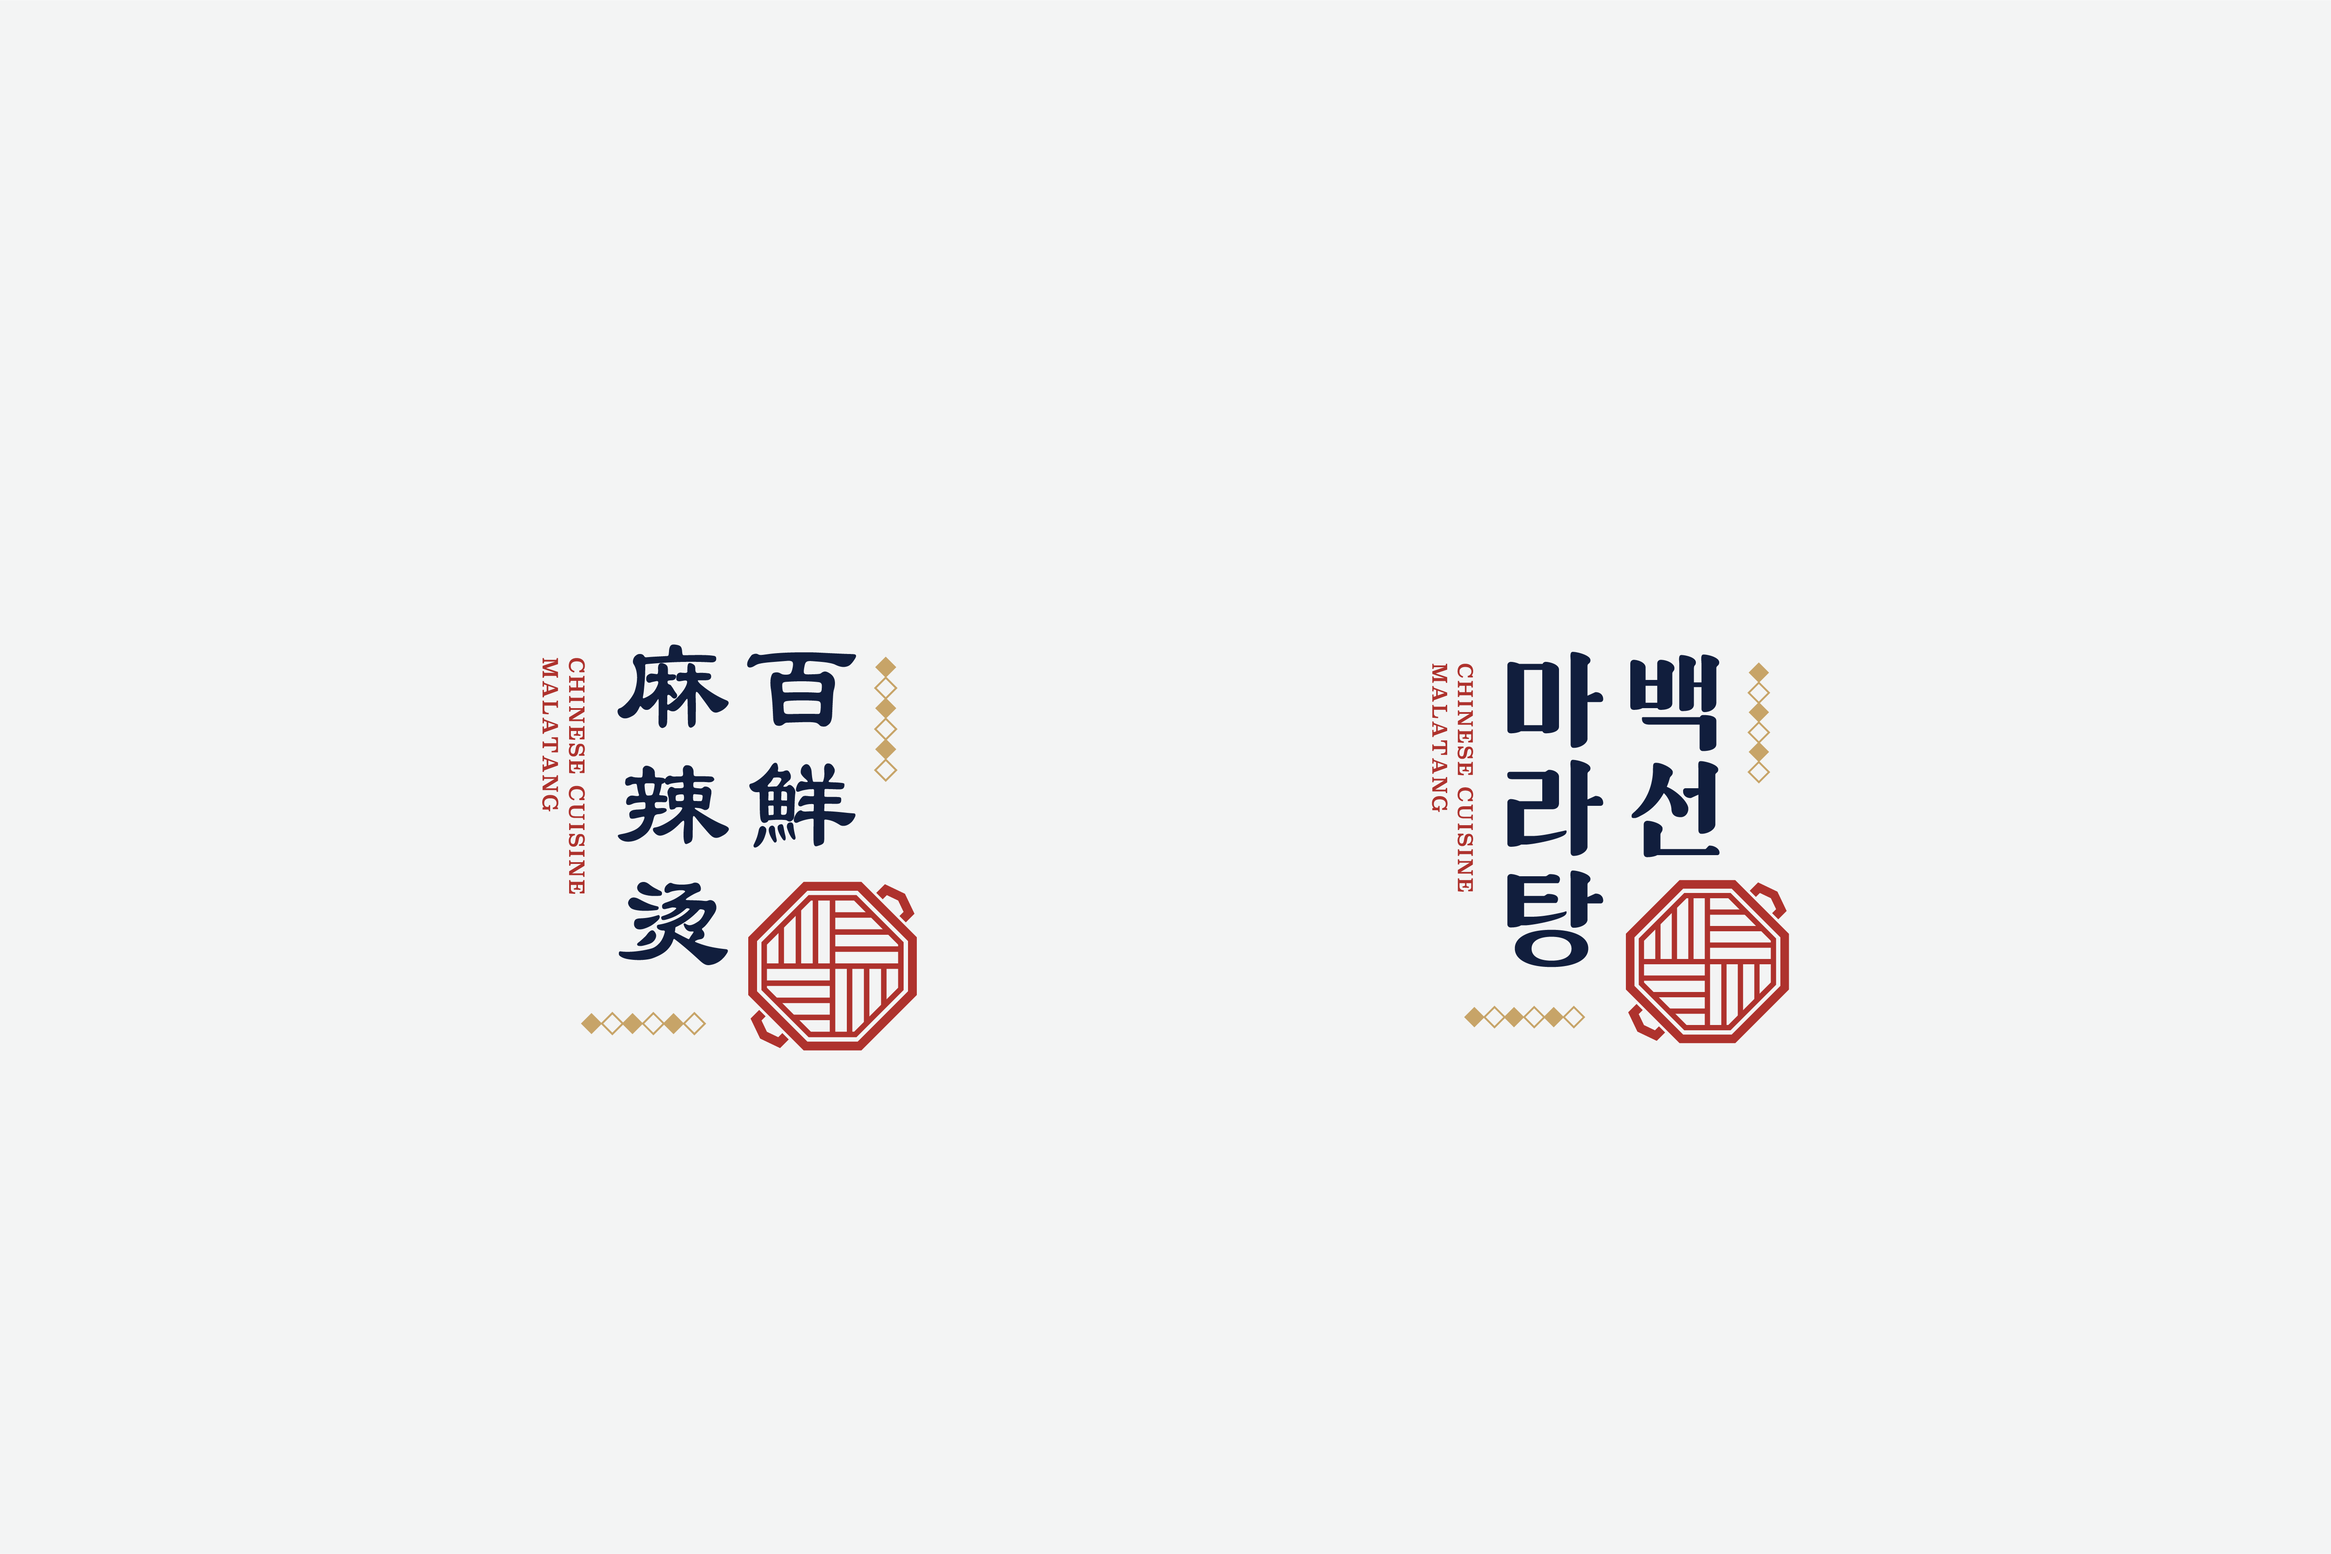
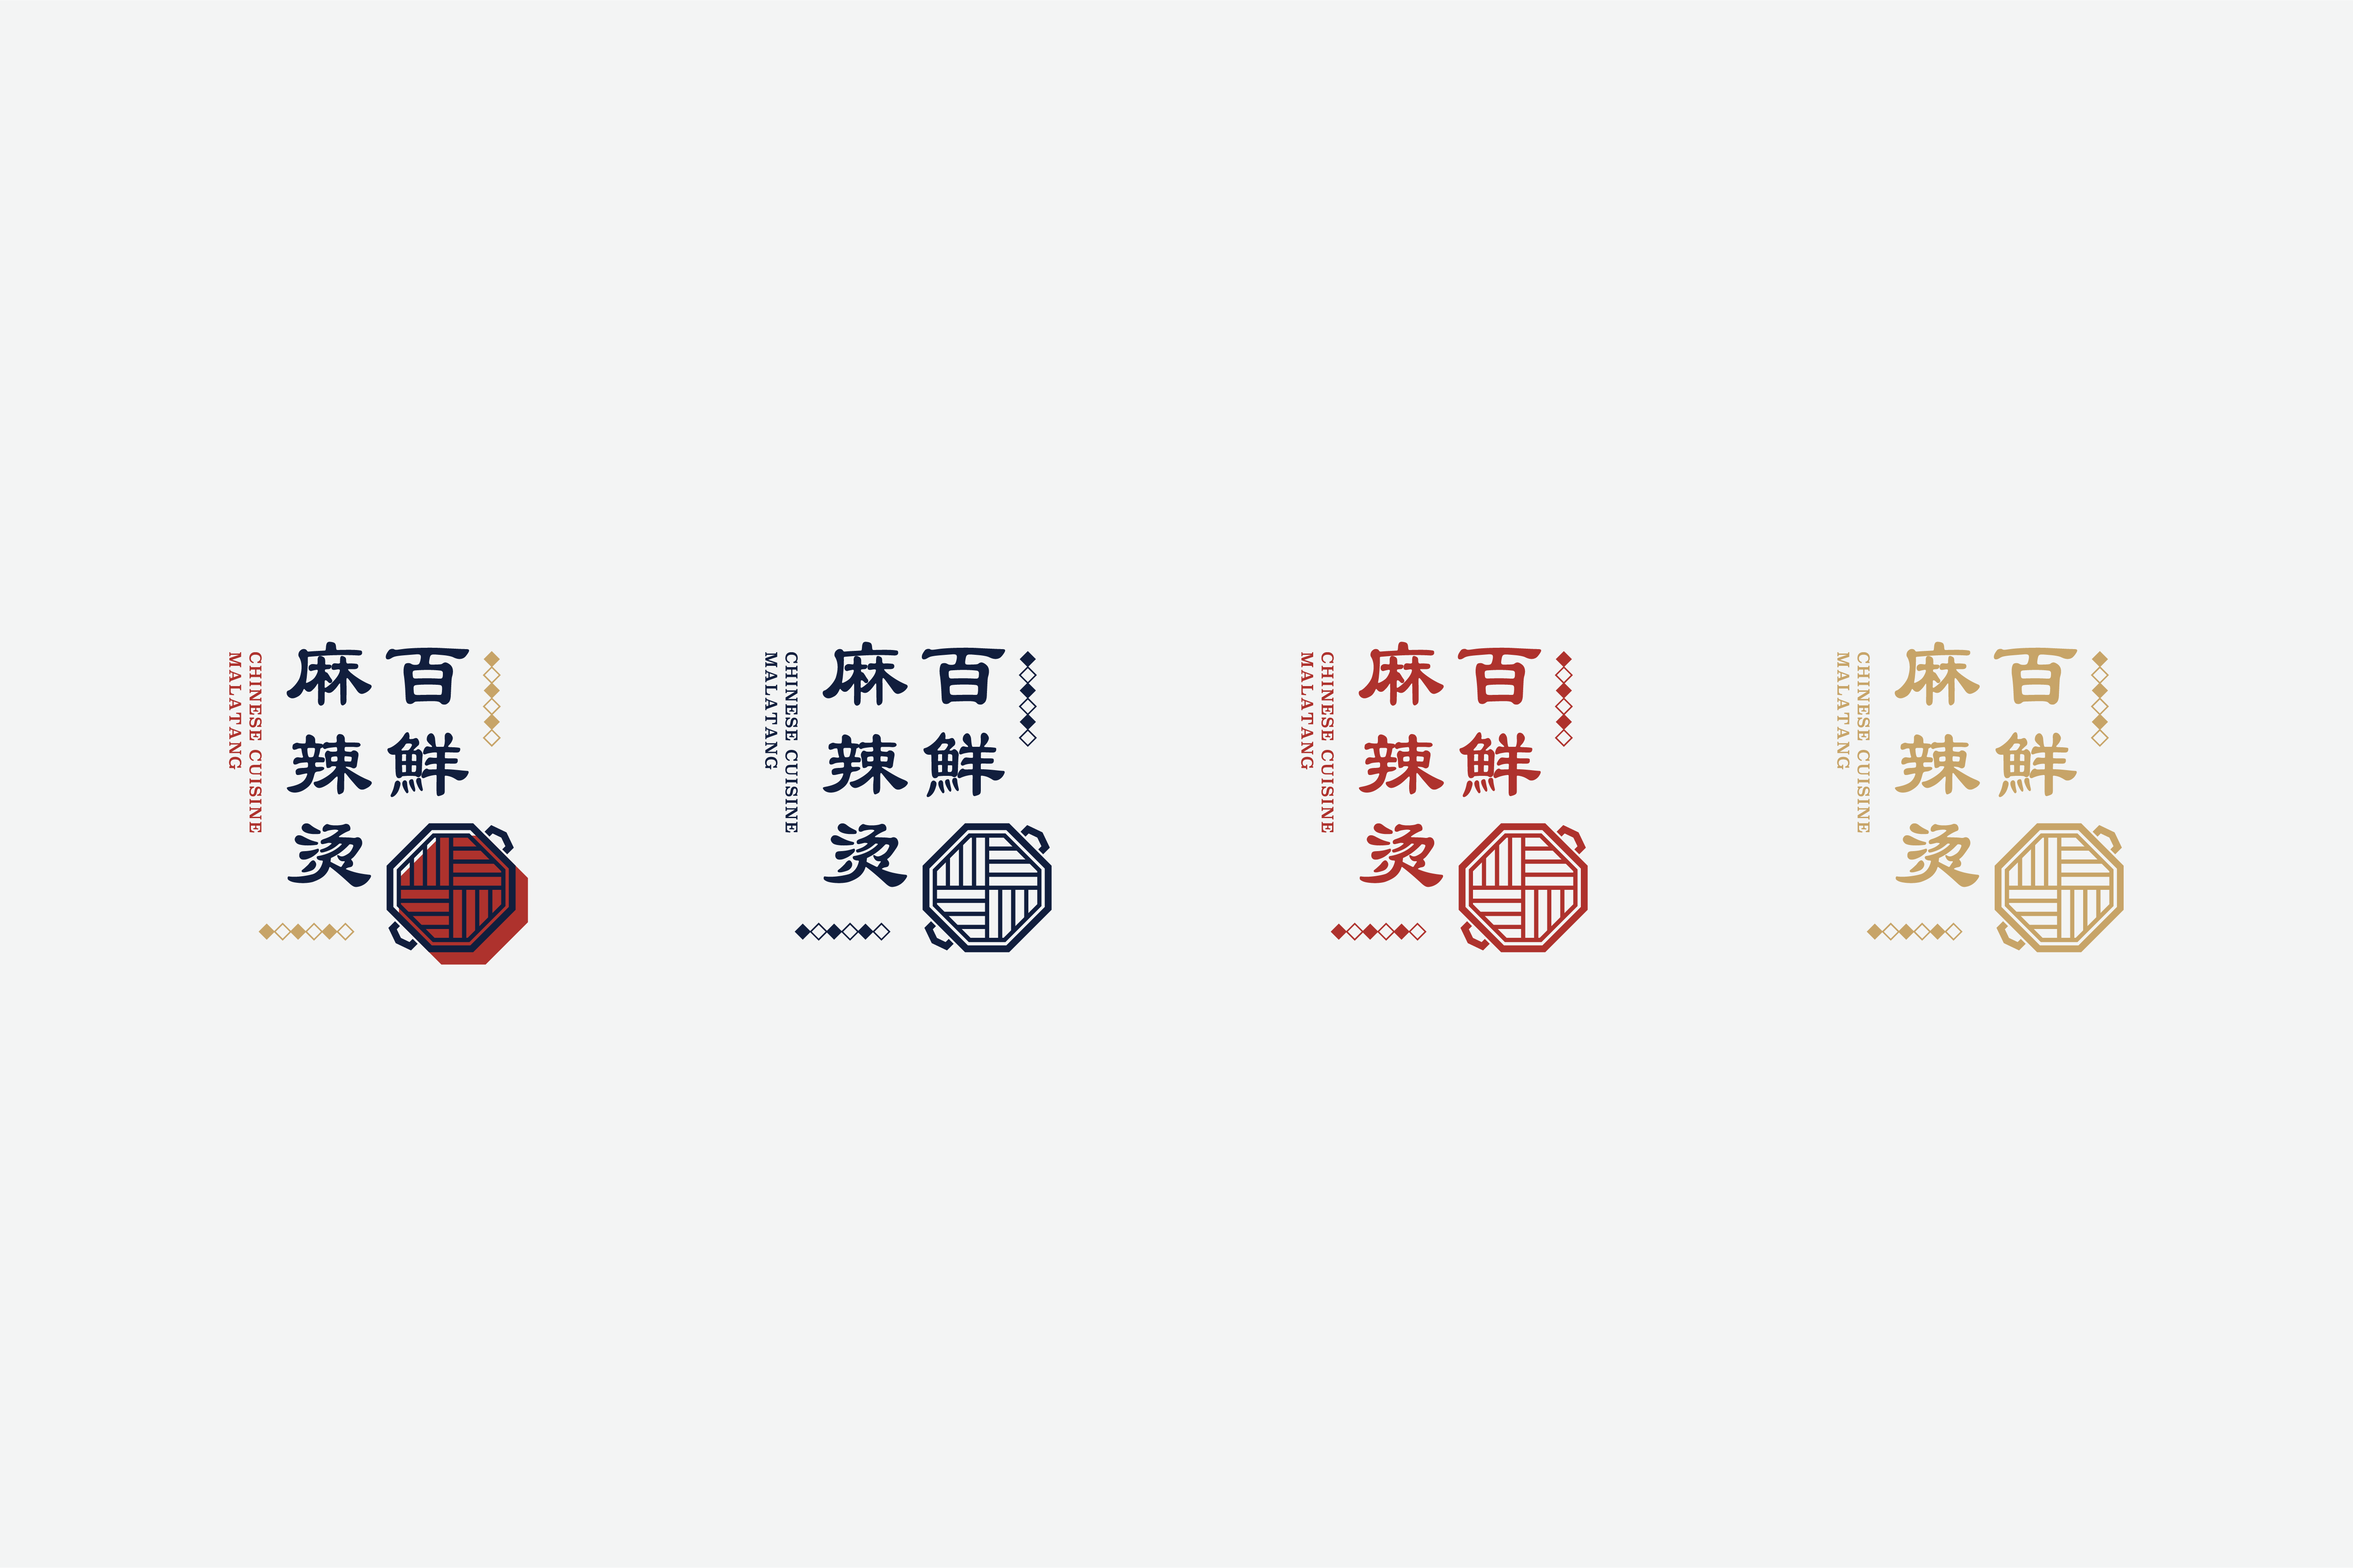
feat: 인사이트 featured 정렬 기능 추가 + 포트폴리오 이미지 업데이트
- how-logodot-was-born 인사이트 추가 (featured)
- 인사이트 목록 featured 우선 정렬 구현
- 고려금속앙카 포트폴리오 제거 (이미지 삭제)
- 백선마라탕 이미지 업데이트
- lucent 6.png 삭제 반영

Changed region(s): [[0.0935, 0.405, 0.4673, 0.6854], [0.5608, 0.405, 0.9035, 0.6854]]

diff --git a/src/data/portfolio.ts b/src/data/portfolio.ts
@@ -448,28 +448,6 @@ export const portfolioItems: PortfolioItem[] = [
       { src: '/portfolio/baekseon-malatang/9.png', alt: '백선마라탕 BI 디자인 - 9' },
     ],
     prevSlug: 'ondotech',
-    nextSlug: 'koryo-metal',
-  },
-  {
-    slug: 'koryo-metal',
-    title: "고려금속앙카 CI 디자인",
-    category: "기업·스타트업",
-    categorySlug: "기업·스타트업",
-    client: "고려금속앙카",
-    service: "로고·리브랜딩 디자인",
-    date: "2023",
-    thumbnail: '/portfolio/koryo-metal/cover.png',
-    descriptionKo: "고려금속앙카는 석재 앙카 및 금속 앙카를 전문적으로 제조하는 기업으로, 오랜 경험과 기술력을 바탕으로 고객에게 신뢰할 수 있는 제품을 제공합니다.\n심벌은 브랜드 이니셜 K를 기반으로 설계하였으며, 금속 앙카가 구조물을 단단하게 고정하는 역할에서 착안해 안정감과 결속력을 상징적으로 표현했습니다. 기하학적인 형태와 균형감 있는 구조를 통해 전문성과 기술력을 강조하였습니다.\n브랜드 컬러는 신뢰와 전문성을 상징하는 네이비, 안전과 품질을 의미하는 그레이, 그리고 열정과 도전 정신을 나타내는 레드를 조합하여 고려금속앙카만의 강인하고 견고한 브랜드 이미지를 구축하였습니다.",
-    descriptionEn: "Koryo Metal Anchor is a manufacturer specializing in stone and metal anchor systems. The symbol is based on the initial \"K\", inspired by the anchoring function that securely connects and supports structural elements. Its geometric form represents stability, precision, and engineering excellence.\nThe color palette combines navy for trust and professionalism, gray for safety and quality, and red for passion and innovation, creating a strong and dependable brand identity for Koryo Metal Anchor.",
-    images: [
-      { src: '/portfolio/koryo-metal/cover.png', alt: '고려금속앙카 CI 디자인 - cover' },
-      { src: '/portfolio/koryo-metal/1.png',     alt: '고려금속앙카 CI 디자인 - 1' },
-      { src: '/portfolio/koryo-metal/2.png',     alt: '고려금속앙카 CI 디자인 - 2' },
-      { src: '/portfolio/koryo-metal/3.png',     alt: '고려금속앙카 CI 디자인 - 3' },
-      { src: '/portfolio/koryo-metal/4.png',     alt: '고려금속앙카 CI 디자인 - 4' },
-      { src: '/portfolio/koryo-metal/5.png',     alt: '고려금속앙카 CI 디자인 - 5' },
-    ],
-    prevSlug: 'baekseon-malatang',
     nextSlug: 'market',
   },
   {
@@ -506,7 +484,7 @@ export const portfolioItems: PortfolioItem[] = [
       { src: '/portfolio/market/19.png',    alt: '마켓 BI 디자인 - 19' },
       { src: '/portfolio/market/20.png',    alt: '마켓 BI 디자인 - 20' },
     ],
-    prevSlug: 'koryo-metal',
+    prevSlug: 'baekseon-malatang',
     nextSlug: 'olivemeat',
   },
   {

diff --git a/src/lib/insights.ts b/src/lib/insights.ts
@@ -11,6 +11,7 @@ export interface InsightMeta {
   dateDisplay: string; // 표시용: 2026.01.10
   excerpt: string;
   thumbnail: string | null;
+  featured?: boolean;
   prevSlug?: string;
   nextSlug?: string;
 }
@@ -54,11 +55,16 @@ export function getAllInsights(): InsightMeta[] {
       dateDisplay: toDisplay(date),
       excerpt: (data.excerpt as string) ?? '',
       thumbnail: resolveThumb(data.thumbnail),
+      featured: (data.featured as boolean) ?? false,
     };
   });
 
-  // 날짜 내림차순 정렬
-  articles.sort((a, b) => new Date(b.date).getTime() - new Date(a.date).getTime());
+  // featured 우선, 이후 날짜 내림차순
+  articles.sort((a, b) => {
+    if (a.featured && !b.featured) return -1;
+    if (!a.featured && b.featured) return 1;
+    return new Date(b.date).getTime() - new Date(a.date).getTime();
+  });
 
   // prev / next 자동 연결
   return articles.map((article, idx) => ({

diff --git a/content/insights/how-logodot-was-born.md b/content/insights/how-logodot-was-born.md
@@ -1,0 +1,159 @@
+---
+title: 로고닷은 어떻게 탄생했을까?
+category: 브랜딩 기초
+date: 2026-06-10
+featured: true
+excerpt: 로고닷을 만들게 된 이야기
+thumbnail: /insights/how-logodot-was-born/cover.png
+---
+
+
+
+
+# 로고닷은 어떻게 탄생했을까?
+
+안녕하세요. 로고닷의 브랜드 디자이너입니다.
+
+저는 10년째 디자인 일을 하고 있고, 스튜디오를 운영한 지도 어느덧 10년이 되어가고 있습니다.
+
+그동안 다양한 프로젝트를 진행했지만, 대부분은 공공기관, 기업, 행사, 전시와 관련된 디자인 작업이었습니다.
+
+포스터를 만들고, 리플렛을 만들고, 행사 아이덴티티를 만들고, 공간 그래픽을 설계하는 일들.
+
+지금까지도 좋아하는 일이지만, 한편으로는 늘 가장 좋아하는 분야가 따로 있었습니다.
+
+바로 브랜드 디자인입니다.
+
+새로운 브랜드의 이름을 만들고,
+
+브랜드의 방향을 고민하고,
+
+로고와 컬러, 패키지, 브랜드 아이덴티티를 설계하는 과정.
+
+저는 그 과정을 가장 좋아했습니다.
+
+시간이 지나면서 브랜드 프로젝트도 하나둘 쌓이기 시작했습니다.
+
+카페 브랜드,
+패션 브랜드,
+병원,
+전통 공예 브랜드까지.
+
+브랜드 디자인 포트폴리오가 점점 많아졌습니다.
+
+하지만 한 가지 고민이 있었습니다.
+
+기존 스튜디오 안에는 너무 다양한 프로젝트가 함께 존재하고 있었습니다.
+
+공공기관 디자인,
+행사 디자인,
+편집 디자인,
+브랜드 디자인.
+
+물론 모두 제가 만든 작업이지만 방문자 입장에서는 조금 다른 이야기였습니다.
+
+브랜드 디자인을 찾는 사람과 행사 디자인을 찾는 사람은 관심사가 다르기 때문입니다.
+
+브랜드 디자인만을 위한 공간이 필요하다는 생각을 하게 되었습니다.
+
+그렇게 로고닷이 시작되었습니다.
+
+---
+
+
+## 왜 이름이 로고닷일까?
+
+브랜드를 만드는 사람으로서 가장 먼저 고민한 것은 역시 이름이었습니다.
+
+이름은 단순해야 했고,
+기억하기 쉬워야 했고,
+브랜드 디자인과 연결되어야 했습니다.
+
+그렇게 떠올린 이름이 바로 Logodot입니다.
+
+Logo와 Dot.
+
+로고를 구성하는 가장 작은 요소 중 하나인 점(Dot)에서 출발했습니다.
+
+브랜드는 거창한 곳에서 시작되지 않습니다.
+
+하나의 이름,
+하나의 로고,
+하나의 작은 아이디어에서 시작됩니다.
+
+로고닷이라는 이름에는 그런 의미를 담았습니다.
+
+---
+
+
+## 로고는 어떻게 만들어졌을까?
+
+사실 지금의 로고가 처음부터 나온 것은 아닙니다.
+
+수많은 시안을 만들었습니다.
+
+심볼도 만들었고,
+다양한 워드마크도 시도했습니다.
+
+L.을 활용한 방향도 있었고,
+
+Logodot.
+
+처럼 마침표를 포함한 버전도 있었습니다.
+
+하지만 디자인을 반복할수록 오히려 하나의 생각에 도달하게 되었습니다.
+
+---
+
+
+**더할 것이 아니라 덜어내야 한다.**
+
+그리고 어느 순간 이런 생각이 들었습니다.
+
+> dot이 이미 점인데, 점을 또 찍을 필요가 있을까?
+
+Logodot.의 마지막 점은 보기 좋았습니다.
+
+하지만 이름 안에 이미 Dot이 존재하는데 마침표를 또 추가하는 것은 같은 의미를 반복하는 것처럼 느껴졌습니다.
+
+결국 마지막 점을 지웠습니다.
+
+그리고 심볼 역시 계속 덜어냈습니다.
+
+그렇게 남은 것이 지금의 로고입니다.
+
+---
+
+
+**Logodot**
+
+그리고 하나의 점.
+
+**.**
+
+## One dot. Infinite identity.
+
+로고닷의 슬로건은 One dot. Infinite identity.입니다.
+
+하나의 점에서 무한한 브랜드 아이덴티티가 시작된다는 의미입니다.
+
+지금의 로고닷은 이 하나의 점에서 출발합니다.
+
+프로필 이미지도 점,
+파비콘도 점,
+홈페이지 공유 이미지도 점.
+
+작은 점 하나지만, 그 안에는 브랜드의 시작이라는 의미를 담고 있습니다.
+
+저는 좋은 디자인이 무언가를 더하는 과정이라고 생각하지 않습니다.
+
+오히려 불필요한 요소를 덜어내고 본질만 남기는 과정에 가깝다고 생각합니다.
+
+![로고닷 브랜드 슬로건](/insights/how-logodot-was-born/1.png)
+
+
+로고닷 역시 그렇게 만들어졌습니다.
+
+수많은 시도 끝에 남은 것.
+
+그것이 지금의 로고닷입니다.
